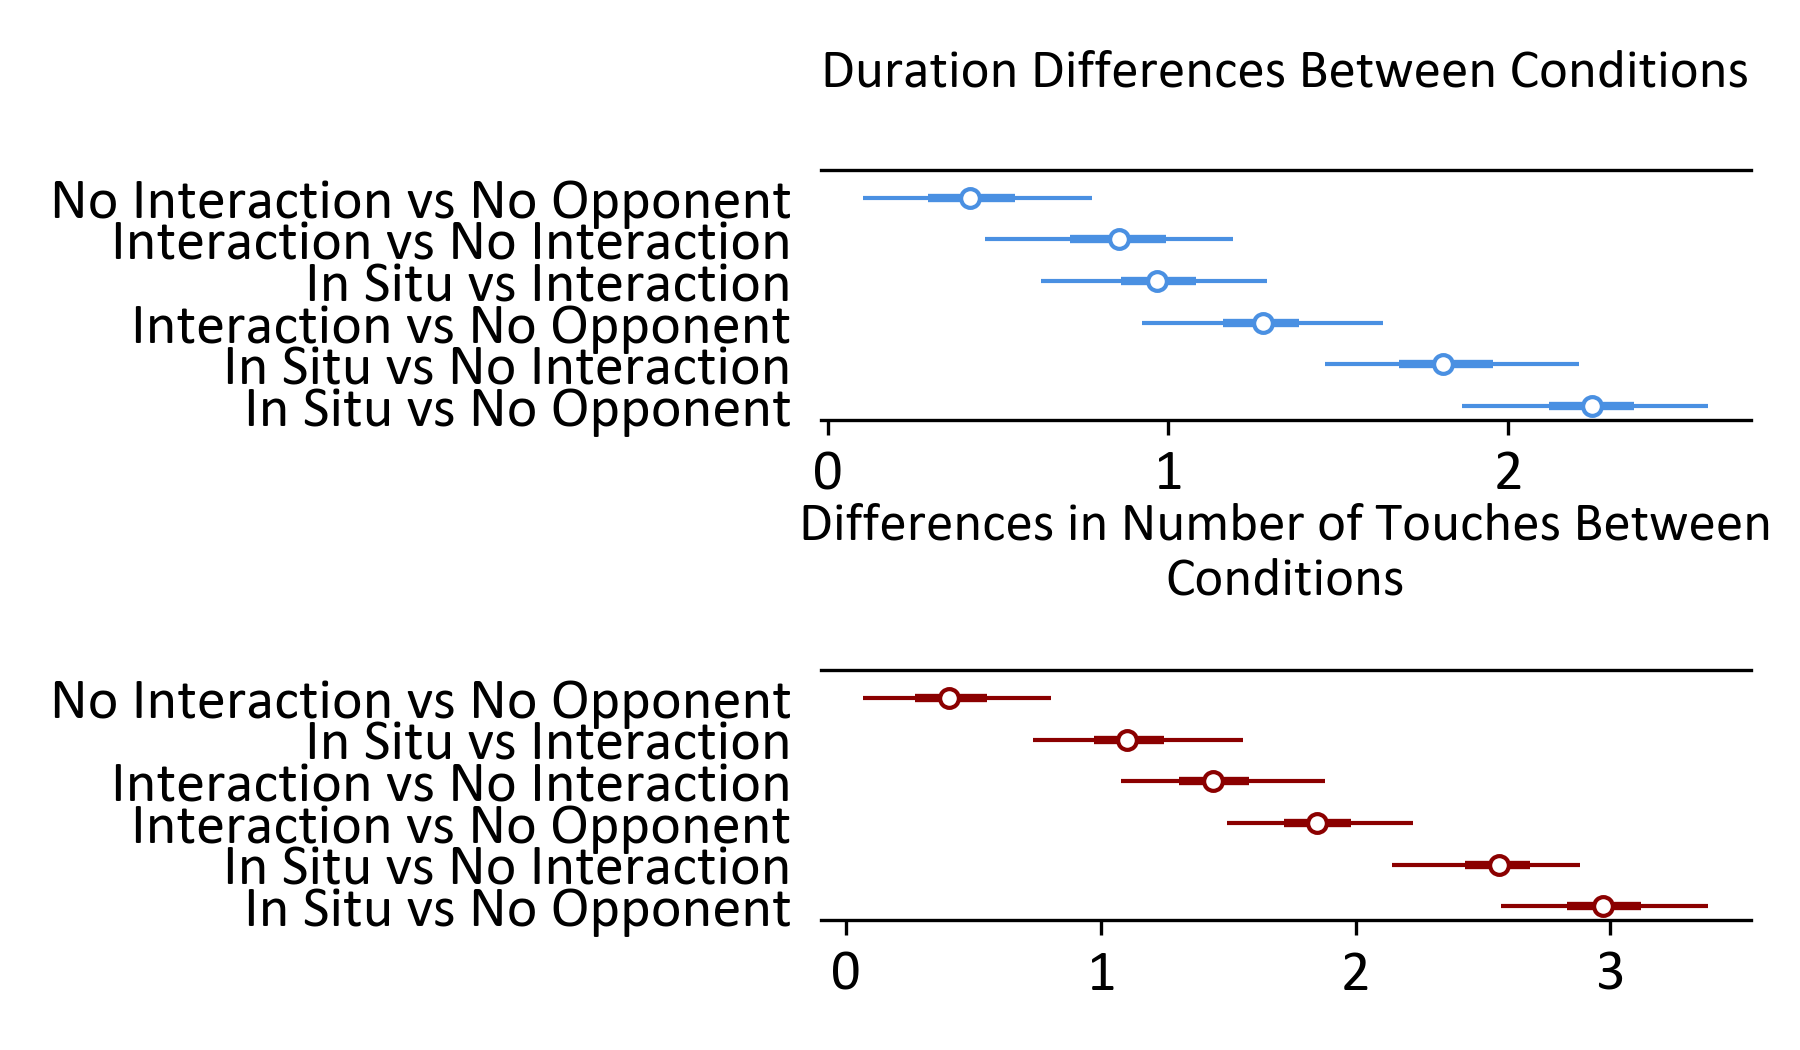
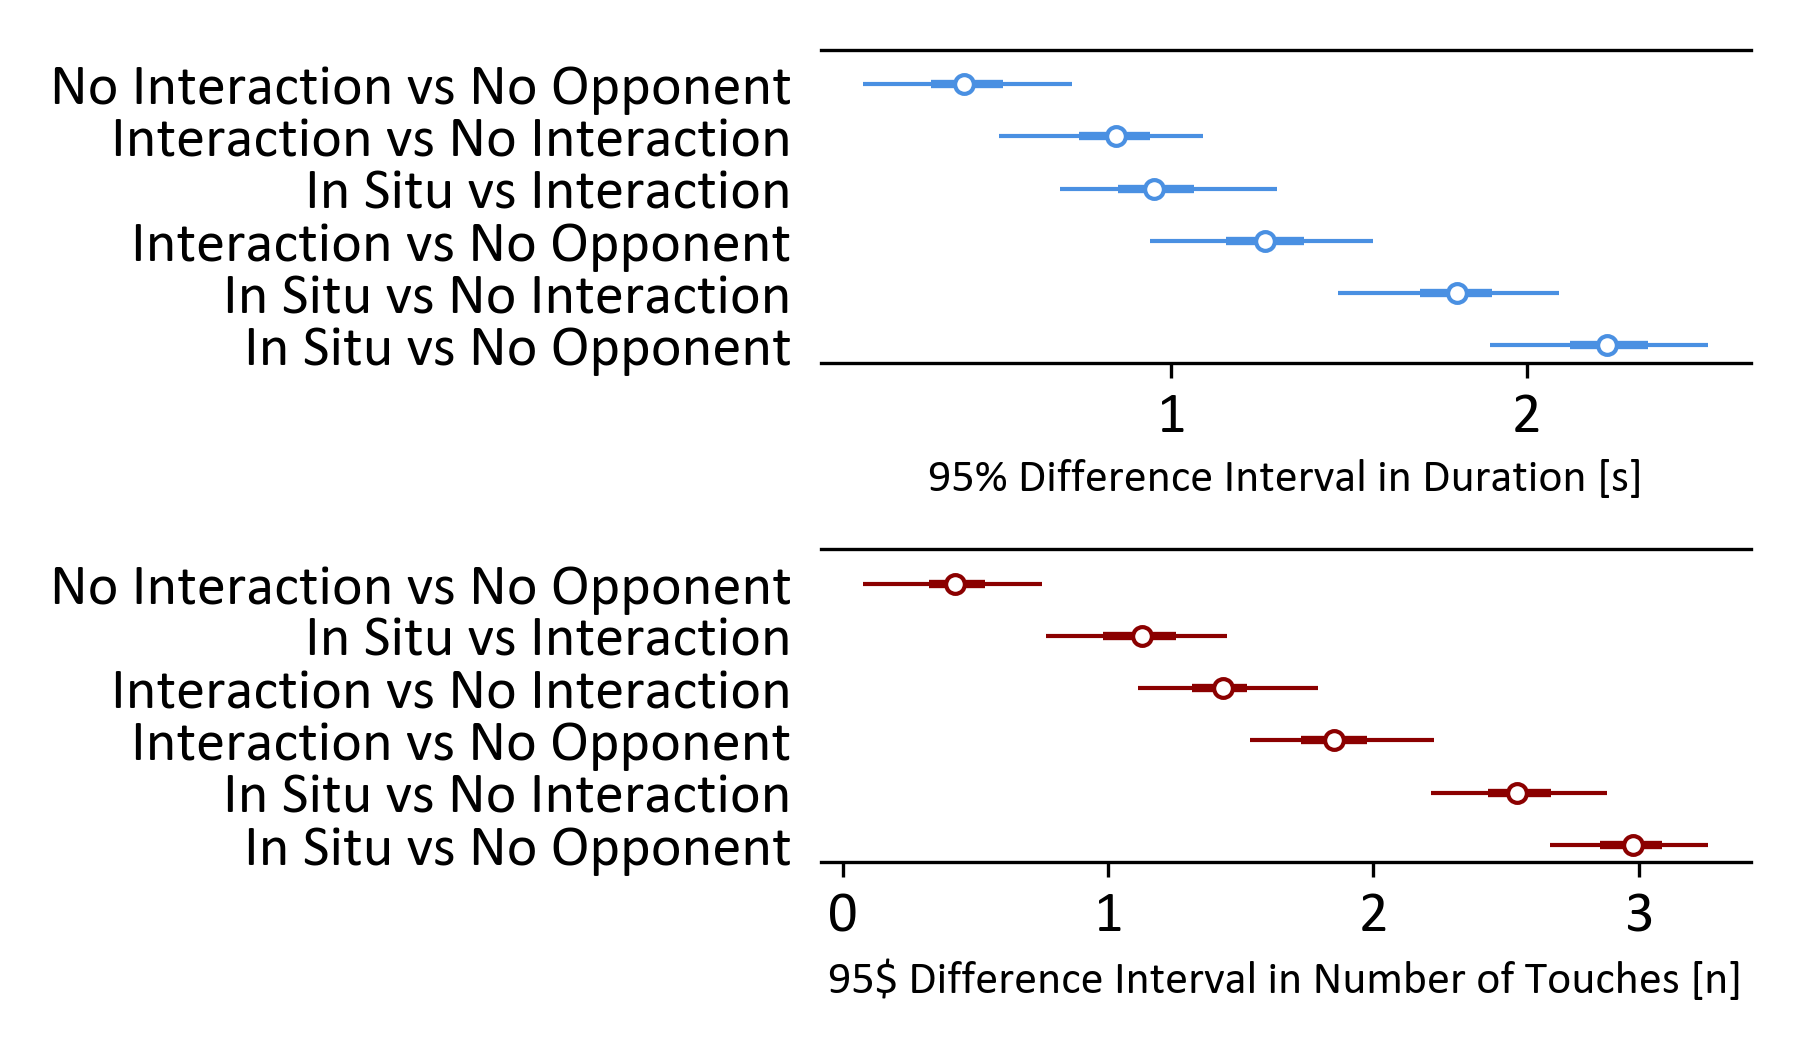
plots working again

diff --git a/Python.Analysis/src/regressions/predictive_figure_duration_and_touches.py b/Python.Analysis/src/regressions/predictive_figure_duration_and_touches.py
@@ -1,102 +1,52 @@
 from pathlib import Path
+import re
 import numpy as np
 import arviz as az
 import matplotlib.pyplot as plt
 import seaborn as sns
+from ..domain import Condition
 
-from ..persistence import Persistence
+from ..persistence import ColumnFormat, Persistence
 
-
-def predictive_figure_duration_and_touches(duration_model_path: Path, touches_model_path: Path, file_name: Path, persistence: Persistence) -> None:
+def duration_and_touches_predictive_figure(duration_model_path: Path, touches_model_path: Path, file_name: Path, persistence: Persistence) -> None:
     duration_results = az.from_netcdf(str(duration_model_path))
     touches_results = az.from_netcdf(str(touches_model_path))
-    
-    # Debug: Print the structure of the ArviZ objects
-    print("\nDuration Results Structure:")
-    print("Groups:", duration_results.groups())
-    print("\nPosterior Predictive Variables:", duration_results.posterior_predictive.data_vars)
-    print("\nPosterior Variables:", duration_results.posterior.data_vars)
-    
-    print("\nTouches Results Structure:")
-    print("Groups:", touches_results.groups())
-    print("\nPosterior Predictive Variables:", touches_results.posterior_predictive.data_vars)
-    print("\nPosterior Variables:", touches_results.posterior.data_vars)
-    
-    # Get posterior predictive samples and reshape to (n_samples, n_conditions)
-    duration_samples = duration_results.posterior_predictive["duration"].values
-    duration_samples = duration_samples.reshape(-1, duration_samples.shape[-1])
-    
-    touches_samples = touches_results.posterior_predictive["touches"].values
-    touches_samples = touches_samples.reshape(-1, touches_samples.shape[-1])
-    
-    # Calculate means and standard errors
-    duration_means = np.mean(duration_samples, axis=0)
-    duration_std = np.std(duration_samples, axis=0)
-    touches_means = np.mean(touches_samples, axis=0)
-    touches_std = np.std(touches_samples, axis=0)
-    
-    # Create figure with dual y-axes
-    fig, ax1 = plt.subplots(figsize=(10, 6))
+
+    duration_samples = duration_results.posterior["C(condition)"].values
+    touches_samples = touches_results.posterior["C(condition)"].values
+
+    duration_samples = duration_samples.reshape(-1, duration_samples.shape[-1]).T
+    touches_samples = touches_samples.reshape(-1, touches_samples.shape[-1]).T
+
+    duration_means = duration_samples.mean(axis=1)
+    touches_means = touches_samples.mean(axis=1)
+
+    conditions = [c.value for c in Condition]
+    x_pos = np.arange(len(conditions))
+
+    fig, ax1 = plt.subplots(figsize=(persistence.figure_width(ColumnFormat.DOUBLE), 2.75))
     ax2 = ax1.twinx()
-    
-    # Plot duration on left y-axis
-    duration_bars = ax1.bar(
-        np.arange(len(duration_means)),
-        duration_means,
-        yerr=duration_std,
-        capsize=5,
-        color='blue',
-        alpha=0.7,
-        label='Duration'
-    )
-    
-    # Plot touches on right y-axis
-    touches_bars = ax2.bar(
-        np.arange(len(touches_means)),
-        touches_means,
-        yerr=touches_std,
-        capsize=5,
-        color='red',
-        alpha=0.7,
-        label='Touches'
-    )
-    
-    # Add jitter points for individual data
-    for i in range(len(duration_means)):
-        ax1.scatter(
-            [i] * len(duration_samples),
-            duration_samples[:, i],
-            color='blue',
-            alpha=0.1,
-            s=10
-        )
-        ax2.scatter(
-            [i] * len(touches_samples),
-            touches_samples[:, i],
-            color='red',
-            alpha=0.1,
-            s=10
-        )
-    
-    # Set x-axis labels
-    conditions = ["In Situ", "Interaction", "No Interaction", "No Opponent"]
-    ax1.set_xticks(np.arange(len(conditions)))
-    ax1.set_xticklabels(conditions)
-    
-    # Set y-axis labels
-    ax1.set_ylabel('Duration (seconds)', color='blue')
-    ax2.set_ylabel('Number of Touches', color='red')
-    
-    # Add legend
+
+    ax1.bar(x_pos - 0.2, duration_means, 0.4, capsize=5, color='#4A90E2', label='Duration')
+    ax1.set_ylabel('Duration [s]')
+
+    ax2.bar(x_pos + 0.2, touches_means, 0.4, capsize=5, color='#8B0000', label='Touches')
+    ax2.set_ylabel('Number of Touches [n]')
+
+    ax1.set_xticks(x_pos)
+    formatted_labels = [re.sub(r'([a-z])([A-Z])', r'\1 \2', label) for label in conditions]
+    ax1.set_xticklabels(formatted_labels, rotation=0)
+
+    for i in range(len(conditions)):
+        duration_jitter = np.random.normal(0, 0.05, size=duration_samples.shape[1])
+        touches_jitter = np.random.normal(0, 0.05, size=touches_samples.shape[1])
+        ax1.scatter(i - 0.2 + duration_jitter, duration_samples[i], alpha=0.1, color='black', s=10)
+        ax2.scatter(i + 0.2 + touches_jitter, touches_samples[i], alpha=0.1, color='black', s=10)
+
     lines1, labels1 = ax1.get_legend_handles_labels()
     lines2, labels2 = ax2.get_legend_handles_labels()
     ax1.legend(lines1 + lines2, labels1 + labels2, loc='upper left')
-    
-    # Set title
-    plt.title('Predictive Distributions of Duration and Touches by Condition')
-    
-    # Adjust layout
+
     plt.tight_layout()
-    
-    # Save figure
-    persistence.save_figure(fig, file_name) 
+    persistence.save_figure(fig, file_name)
+    plt.close(fig)

diff --git a/Python.Analysis/src/regressions/post_hoc.py b/Python.Analysis/src/regressions/post_hoc.py
@@ -1,0 +1,101 @@
+from pathlib import Path
+import numpy as np
+import arviz as az
+import matplotlib.pyplot as plt
+import seaborn as sns
+
+from ..domain import Condition
+import re
+
+from ..persistence import ColumnFormat, Persistence
+def duration_and_touches_post_hoc(duration_model_path: Path, touches_model_path: Path, file_name: Path, persistence: Persistence) -> None:
+    duration_results = az.from_netcdf(str(duration_model_path))
+    touches_results = az.from_netcdf(str(touches_model_path))
+    
+    # Get samples for both variables
+    duration_samples = duration_results.posterior["C(condition)"].values
+    touches_samples = touches_results.posterior["C(condition)"].values
+    
+    # Reshape samples
+    duration_samples = duration_samples.reshape(-1, duration_samples.shape[-1])
+    touches_samples = touches_samples.reshape(-1, touches_samples.shape[-1])
+    
+    # Get conditions in reverse order
+    conditions = [c.value for c in Condition]
+    conditions.reverse()
+    
+    # Create figure with two subplots
+    fig, (ax1, ax2) = plt.subplots(2, 1, figsize=(persistence.figure_width(ColumnFormat.DOUBLE), 3.5))
+    
+    # Calculate duration differences
+    duration_diffs = {}
+    for i in range(len(conditions)):
+        for j in range(i + 1, len(conditions)):
+            diff = duration_samples[:, j] - duration_samples[:, i]
+            condition_j = re.sub(r'([a-z])([A-Z])', r'\1 \2', conditions[j])
+            condition_i = re.sub(r'([a-z])([A-Z])', r'\1 \2', conditions[i])
+            comparison = f'{condition_j} vs {condition_i}'
+            duration_diffs[comparison] = diff
+    
+    # Calculate touches differences
+    touches_diffs = {}
+    for i in range(len(conditions)):
+        for j in range(i + 1, len(conditions)):
+            diff = touches_samples[:, j] - touches_samples[:, i]
+            condition_j = re.sub(r'([a-z])([A-Z])', r'\1 \2', conditions[j])
+            condition_i = re.sub(r'([a-z])([A-Z])', r'\1 \2', conditions[i])
+            comparison = f'{condition_j} vs {condition_i}'
+            touches_diffs[comparison] = diff
+    
+    # Sort differences by effect size (mean absolute difference)
+    duration_diffs = dict(sorted(
+        duration_diffs.items(),
+        key=lambda x: abs(np.mean(x[1]))
+    ))
+    touches_diffs = dict(sorted(
+        touches_diffs.items(),
+        key=lambda x: abs(np.mean(x[1]))
+    ))
+    
+    # Create ArviZ InferenceData objects for differences
+    duration_diff_data = az.convert_to_inference_data(
+        {k: v.reshape(1, -1) for k, v in duration_diffs.items()},
+        group="posterior"
+    )
+    touches_diff_data = az.convert_to_inference_data(
+        {k: v.reshape(1, -1) for k, v in touches_diffs.items()},
+        group="posterior"
+    )
+    
+    # Plot duration differences
+    az.plot_forest(
+        duration_diff_data,
+        kind="forestplot",
+        var_names=list(duration_diffs.keys()),
+        linewidth=1,
+        combined=True,
+        hdi_prob=0.95,
+        ax=ax1,
+        colors="#4A90E2"
+    )
+    ax1.set_title("")
+    ax1.set_xlabel("95% Difference Interval in Duration [s]")
+    
+    # Plot touches differences
+    az.plot_forest(
+        touches_diff_data,
+        kind="forestplot",
+        var_names=list(touches_diffs.keys()),
+        linewidth=1,
+        combined=True,
+        hdi_prob=0.95,
+        ax=ax2,
+        colors="#8B0000"
+    )
+    ax2.set_title("")
+    ax2.set_xlabel("95% Difference Interval in Number of Touches [n]")
+    
+    # Ensure tight layout
+    plt.tight_layout()
+    persistence.save_figure(fig, file_name)
+    plt.close(fig) 

diff --git a/Python.Analysis/main.py b/Python.Analysis/main.py
@@ -6,10 +6,11 @@ from src.reader import TrialReader
 from src.regressions import (
     regression_duration,
     regression_touches,
-    predictive_figure_duration_and_touches,
-    table_duration_and_touches,
-    ridge_plot_conditions_and_differences
+    duration_and_touches_predictive_figure,
+    duration_and_touches_table,
+    duration_and_touches_post_hoc
 )
+
 
 
 if __name__ == '__main__':
@@ -28,9 +29,9 @@ if __name__ == '__main__':
     regression_duration(trials, Path("model_1.nc"), Path("model_1.txt"), persistence)
     regression_touches(trials, Path("model_2.nc"), Path("model_2.txt"), persistence)
 
-    table_duration_and_touches(Path("model_1.nc"), Path("model_2.nc"), Path("model_predictions.docx"), persistence)
-    predictive_figure_duration_and_touches(Path("model_1.nc"), Path("model_2.nc"), Path("predictions.png"), persistence)
-    ridge_plot_conditions_and_differences(Path("model_1.nc"), Path("model_2.nc"), Path("ridge_differences.png"), persistence)
+    duration_and_touches_table(Path("model_1.nc"), Path("model_2.nc"), Path("model_predictions.docx"), persistence)
+    duration_and_touches_predictive_figure(Path("model_1.nc"), Path("model_2.nc"), Path("predictions.png"), persistence)
+    duration_and_touches_post_hoc(Path("model_1.nc"), Path("model_2.nc"), Path("ridge_differences.png"), persistence)
 
 
 

diff --git a/Python.Analysis/src/regressions/__init__.py b/Python.Analysis/src/regressions/__init__.py
@@ -1,13 +1,13 @@
 from .regression_duration import regression_duration
 from .regression_touches import regression_touches
-from .table_duration_and_touches import table_duration_and_touches
-from .predictive_figure_duration_and_touches import predictive_figure_duration_and_touches
-from .ridge_plot_conditions_and_differences import ridge_plot_conditions_and_differences
+from .table_duration_and_touches import duration_and_touches_table
+from .predictive_figure_duration_and_touches import duration_and_touches_predictive_figure
+from .post_hoc import duration_and_touches_post_hoc
 
 __all__ = [
     'regression_duration',
     'regression_touches',
-    'table_duration_and_touches',
-    'predictive_figure_duration_and_touches',
-    'ridge_plot_conditions_and_differences'
+    'duration_and_touches_table',
+    'duration_and_touches_predictive_figure',
+    'post_hoc'
 ] 

diff --git a/Python.Analysis/src/regressions/table_duration_and_touches.py b/Python.Analysis/src/regressions/table_duration_and_touches.py
@@ -11,7 +11,7 @@ def probability_effect_is_zero(x):
     return 1 - rounded_prob
 
 
-def table_duration_and_touches(duration_model_path: Path, touches_model_path: Path, file_name: Path, persistence: Persistence) -> None:
+def duration_and_touches_table(duration_model_path: Path, touches_model_path: Path, file_name: Path, persistence: Persistence) -> None:
     duration_results = az.from_netcdf(str(duration_model_path))
     touches_results = az.from_netcdf(str(touches_model_path))
     
